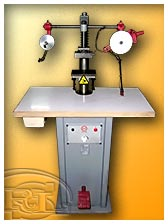
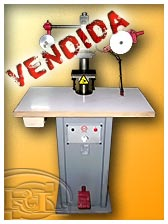
Sold: Centrar 'ORMAC CHALLENGER 835', Timbrar a Pedal 'D-G'

Changed region(s): [[0.0, 0.0, 0.8036, 0.4375]]

diff --git a/maquinas/centrar/maqUs_centrar-y-montar-puntas_ORMAC_CHALLENGER_835.htm b/maquinas/centrar/maqUs_centrar-y-montar-puntas_ORMAC_CHALLENGER_835.htm
@@ -90,7 +90,7 @@ counter++;
   	<!--<div id="mainLogoBg"></div>-->
   	<div class="divider1"></div>
 
-		<h1 style="text-decoration: none; margin-bottom: 0px">RaLoS, MAQUINARIA USADA: Máquina de Centrar y Montar Puntas ORMAC&nbsp;&quot;CHALLENGER&nbsp;835&quot;&nbsp;(Serie&nbsp;Hi&#8209;Tech)</h1>
+		<h1 style="text-decoration: none; margin-bottom: 0px">RaLoS, MAQUINARIA USADA: Máquina de Centrar y Montar Puntas ORMAC&nbsp;&quot;CHALLENGER&nbsp;835&quot;&nbsp;(S.&nbsp;Hi&#8209;Tech)&nbsp;(VENDIDA)</h1>
   <div class="divider2"></div>
     <div id="productContainer">
 			<ul>       
@@ -140,7 +140,7 @@ counter++;
         </tr>
         <tr>
        		<td colspan="4">
-          	<p><span class="boldText">RaLoS</span> dispone de una máquina para centrar y montar las puntas del zapato <span class="boldText">ORMAC &quot;CHALLENGER 835&quot; Serie Hi-Tech</span> de segunda mano, totalmente restaurada en nuestro taller y lista para trabajar.</p>
+          	<p><span class="boldText">RaLoS</span> <span class="lThrought">dispone</span> de una máquina para centrar y montar las puntas del zapato <span class="boldText">ORMAC &quot;CHALLENGER 835&quot; Serie Hi-Tech</span> de segunda mano, totalmente restaurada en nuestro taller y lista para trabajar.</p>
 					</td>
         </tr>
         <tr bgcolor="#FFFFFF">
@@ -175,7 +175,7 @@ counter++;
         </tr>
 
         <tr id="rowInfo">
-          <td width="25%" class="boldText">Disponible</td>
+          <td width="25%" class="boldText">No disponible</td>
           <td width="50%" colspan="2">Restaurada</td>
         <!--<td width="50%" colspan="2">Máquina revisada en nuestro taller.</td>-->
           <td width="25%"><a href="http://www.ralosmaquinaria.com/mainFrameContact.htm?Maquina+de+Centrar+y+Montar+Puntas&'ORMAC+CHALLENGER+835+Serie+Hi-Tech'&(OCASION)#formContainer" title="Ir al Formulario de Consulta" target="_self" class="boldText">Consultar</a></td>

diff --git a/maquinas/timbrar-grabar/maqUs_timbrar-a-pedal_D-G.htm b/maquinas/timbrar-grabar/maqUs_timbrar-a-pedal_D-G.htm
@@ -89,7 +89,7 @@ counter++;
   	<!--<div id="mainLogoBg"></div>-->
   	<div class="divider1"></div>
 
-		<h1 style="text-decoration: none; margin-bottom: 0px">RaLoS, MAQUINARIA USADA: Máquina de Timbrar a Pedal &quot;D-G&quot;</h1>
+		<h1 style="text-decoration: none; margin-bottom: 0px">RaLoS, MAQUINARIA USADA: Máquina de Timbrar a Pedal &quot;D-G&quot;&nbsp;(VENDIDA)</h1>
     <div class="divider2"></div>
     <div id="productContainer">
 			<ul>       
@@ -129,7 +129,7 @@ counter++;
           <th colspan="4" bgcolor="#FFFFFF"><h4>DESCRIPCIÓN DE LA MÁQUINA</h4></th>
         </tr>
         <tr>
-       		<td colspan="4"><p><span class="boldText">RaLoS</span> dispone de una máquina de timbrar a pedal <span class="boldText">&quot;D-G&quot;</span> de segunda mano, en perfecto estado y lista para trabajar.
+       		<td colspan="4"><p><span class="boldText">RaLoS</span> <span class="lThrought">dispone</span> de una máquina de timbrar a pedal <span class="boldText">&quot;D-G&quot;</span> de segunda mano, en perfecto estado y lista para trabajar.
 </p></td>
         </tr>
         <tr bgcolor="#FFFFFF">
@@ -157,7 +157,7 @@ counter++;
         </tr>
 
         <tr id="rowInfo">
-          <td width="25%" class="boldText">Disponible</td>
+          <td width="25%" class="boldText">No disponible</td>
           <td width="50%" colspan="2">En condiciones de trabajo</td>
         <!--<td width="50%" colspan="2">Máquina revisada en nuestro taller.</td>-->
           <td width="25%"><a href="http://www.ralosmaquinaria.com/mainFrameContact.htm?Maquina+de+Timbrar+a+Pedal&'D-G'&(OCASION)#formContainer" title="Ir al Formulario de Consulta" target="_self" class="boldText">Consultar</a></td>

diff --git a/index.htm b/index.htm
@@ -600,15 +600,6 @@ div .mainFooterContent {
         </li>
 
         <li>
-					<div class="liContainer"><a href="maquinas/pegar/maqUs_pegar-entreforros-plato-giratorio_JR.htm" target="mainFrame" title="Ver Máquina de Pegar Entreforros &quot;JR&quot;">
-            <img class="outerImg" alt="" src="images/_mac_vOuterFrame_mTn.png"/>
-            <img class="vInnerImg" alt="Máquina de Pegar Entreforros con Plato Giratorio &quot;JR&quot;" src="maquinas/pegar/maqUs_pegar-entreforros-plato-giratorio_JR_1m-v.jpg"/>
-            <img class="spanPosFix" alt="" src="images/_mac_vOuterFrameFix_mTn.gif"/>
-            <span>Pegar Entreforros de Plato Giratorio&nbsp;&quot;JR&quot;</span></a>
-					</div>
-        </li>
-
-        <li>
 					<div class="liContainer"><a href="maquinas/planchar/maqUs_plancharBotas_DISA_95-G2.htm" target="mainFrame" title="Ver Máquina de Planchar Botas &quot;DISA 95-G2&quot;">
             <img class="outerImg" alt="" src="images/_mac_vOuterFrame_mTn.png"/>
             <img class="vInnerImg" alt="Máquina de Planchar Botas &quot;DISA 95-G2&quot;" src="maquinas/planchar/maqUs_plancharBotas_DISA_95-G2_01mTn.jpg"/>
